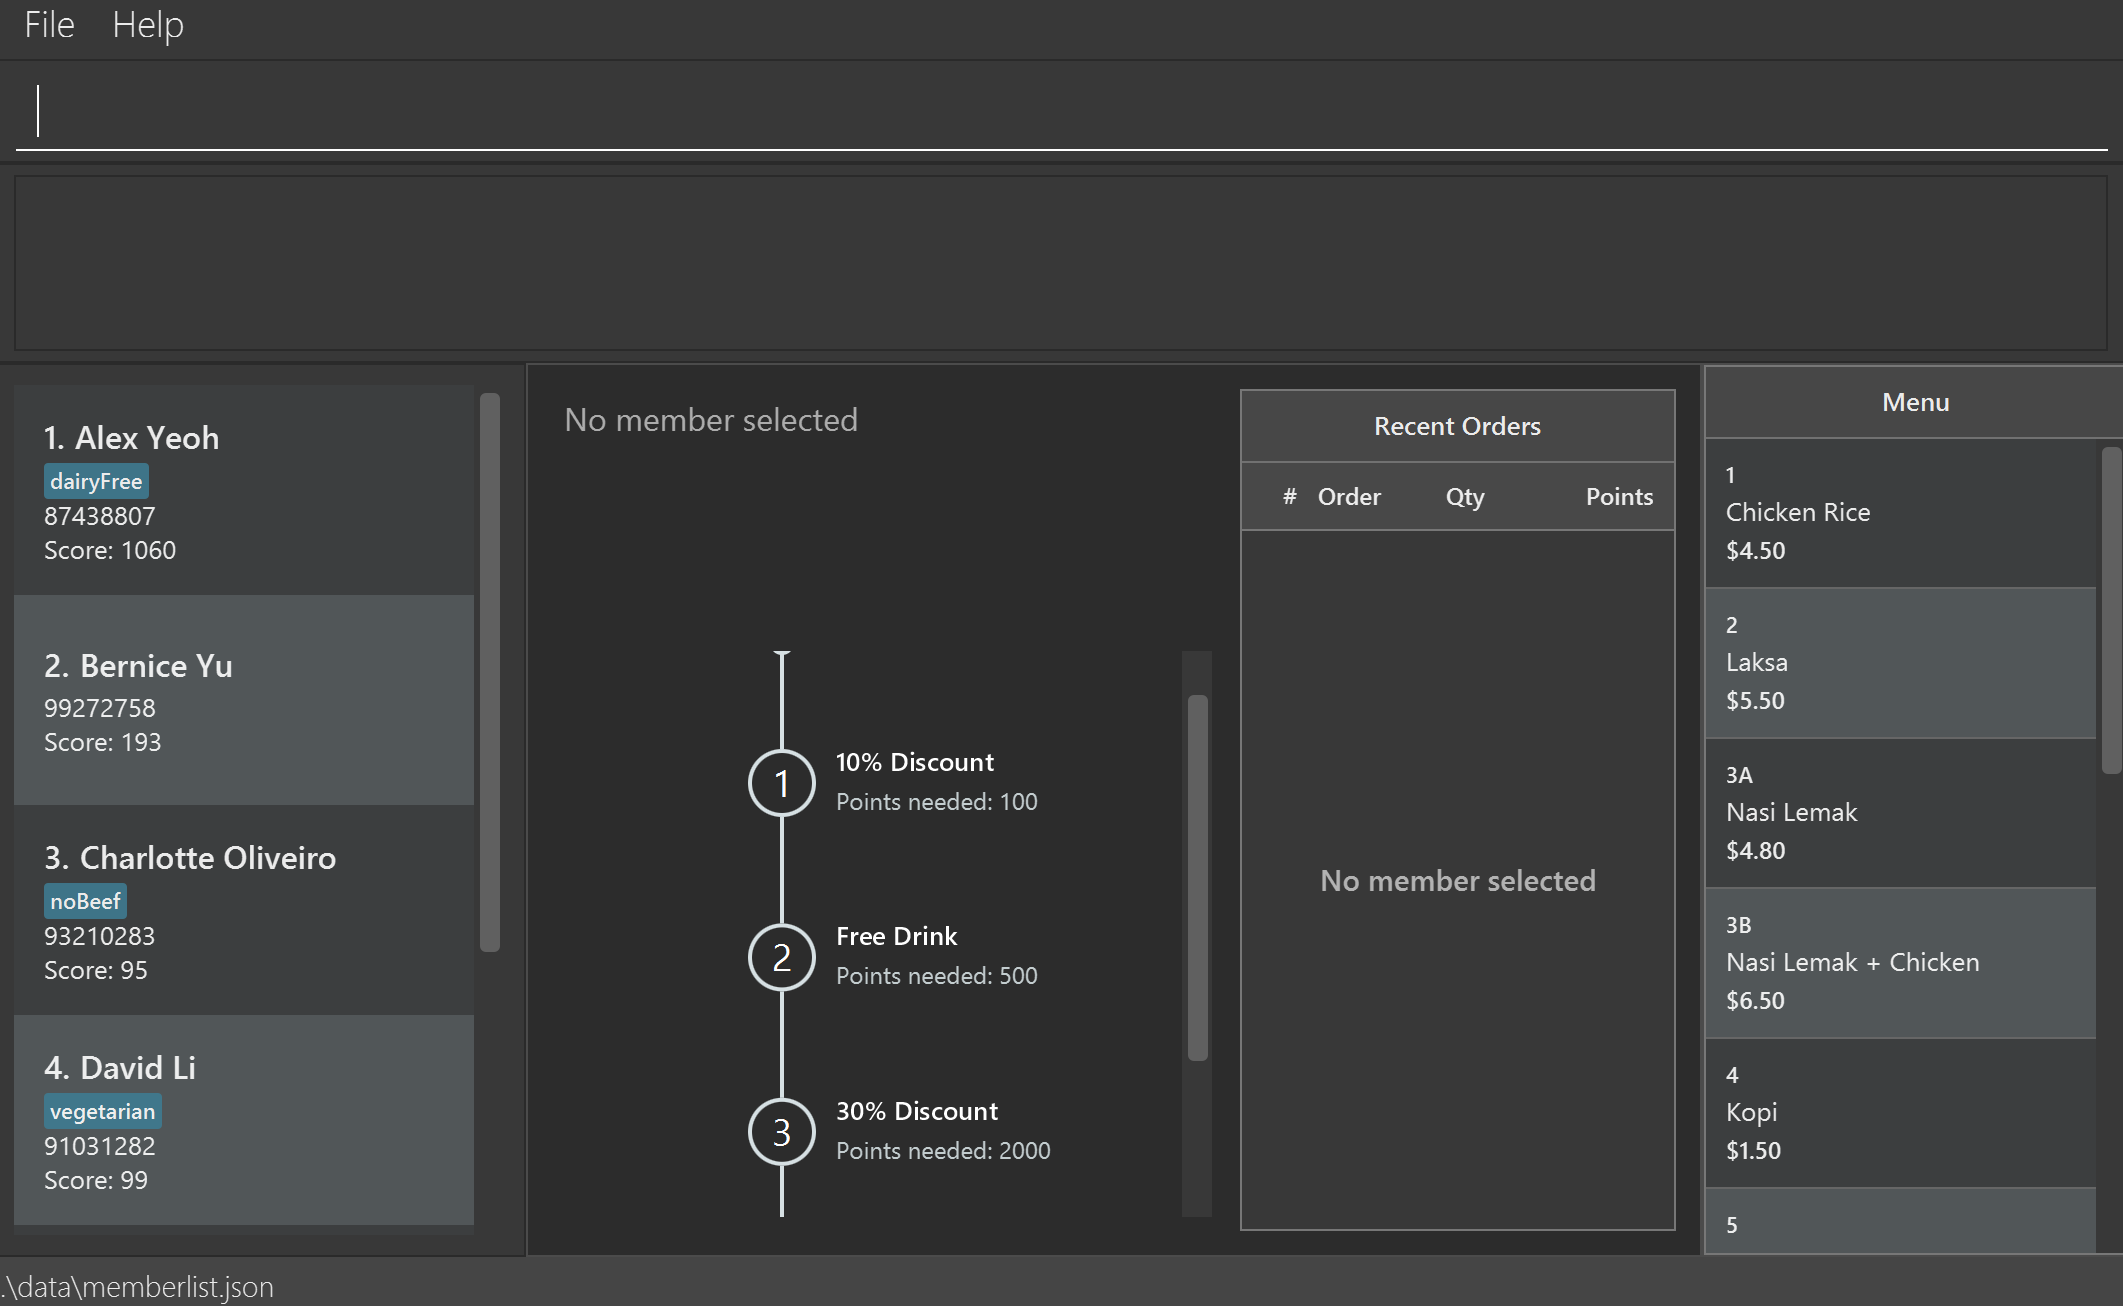
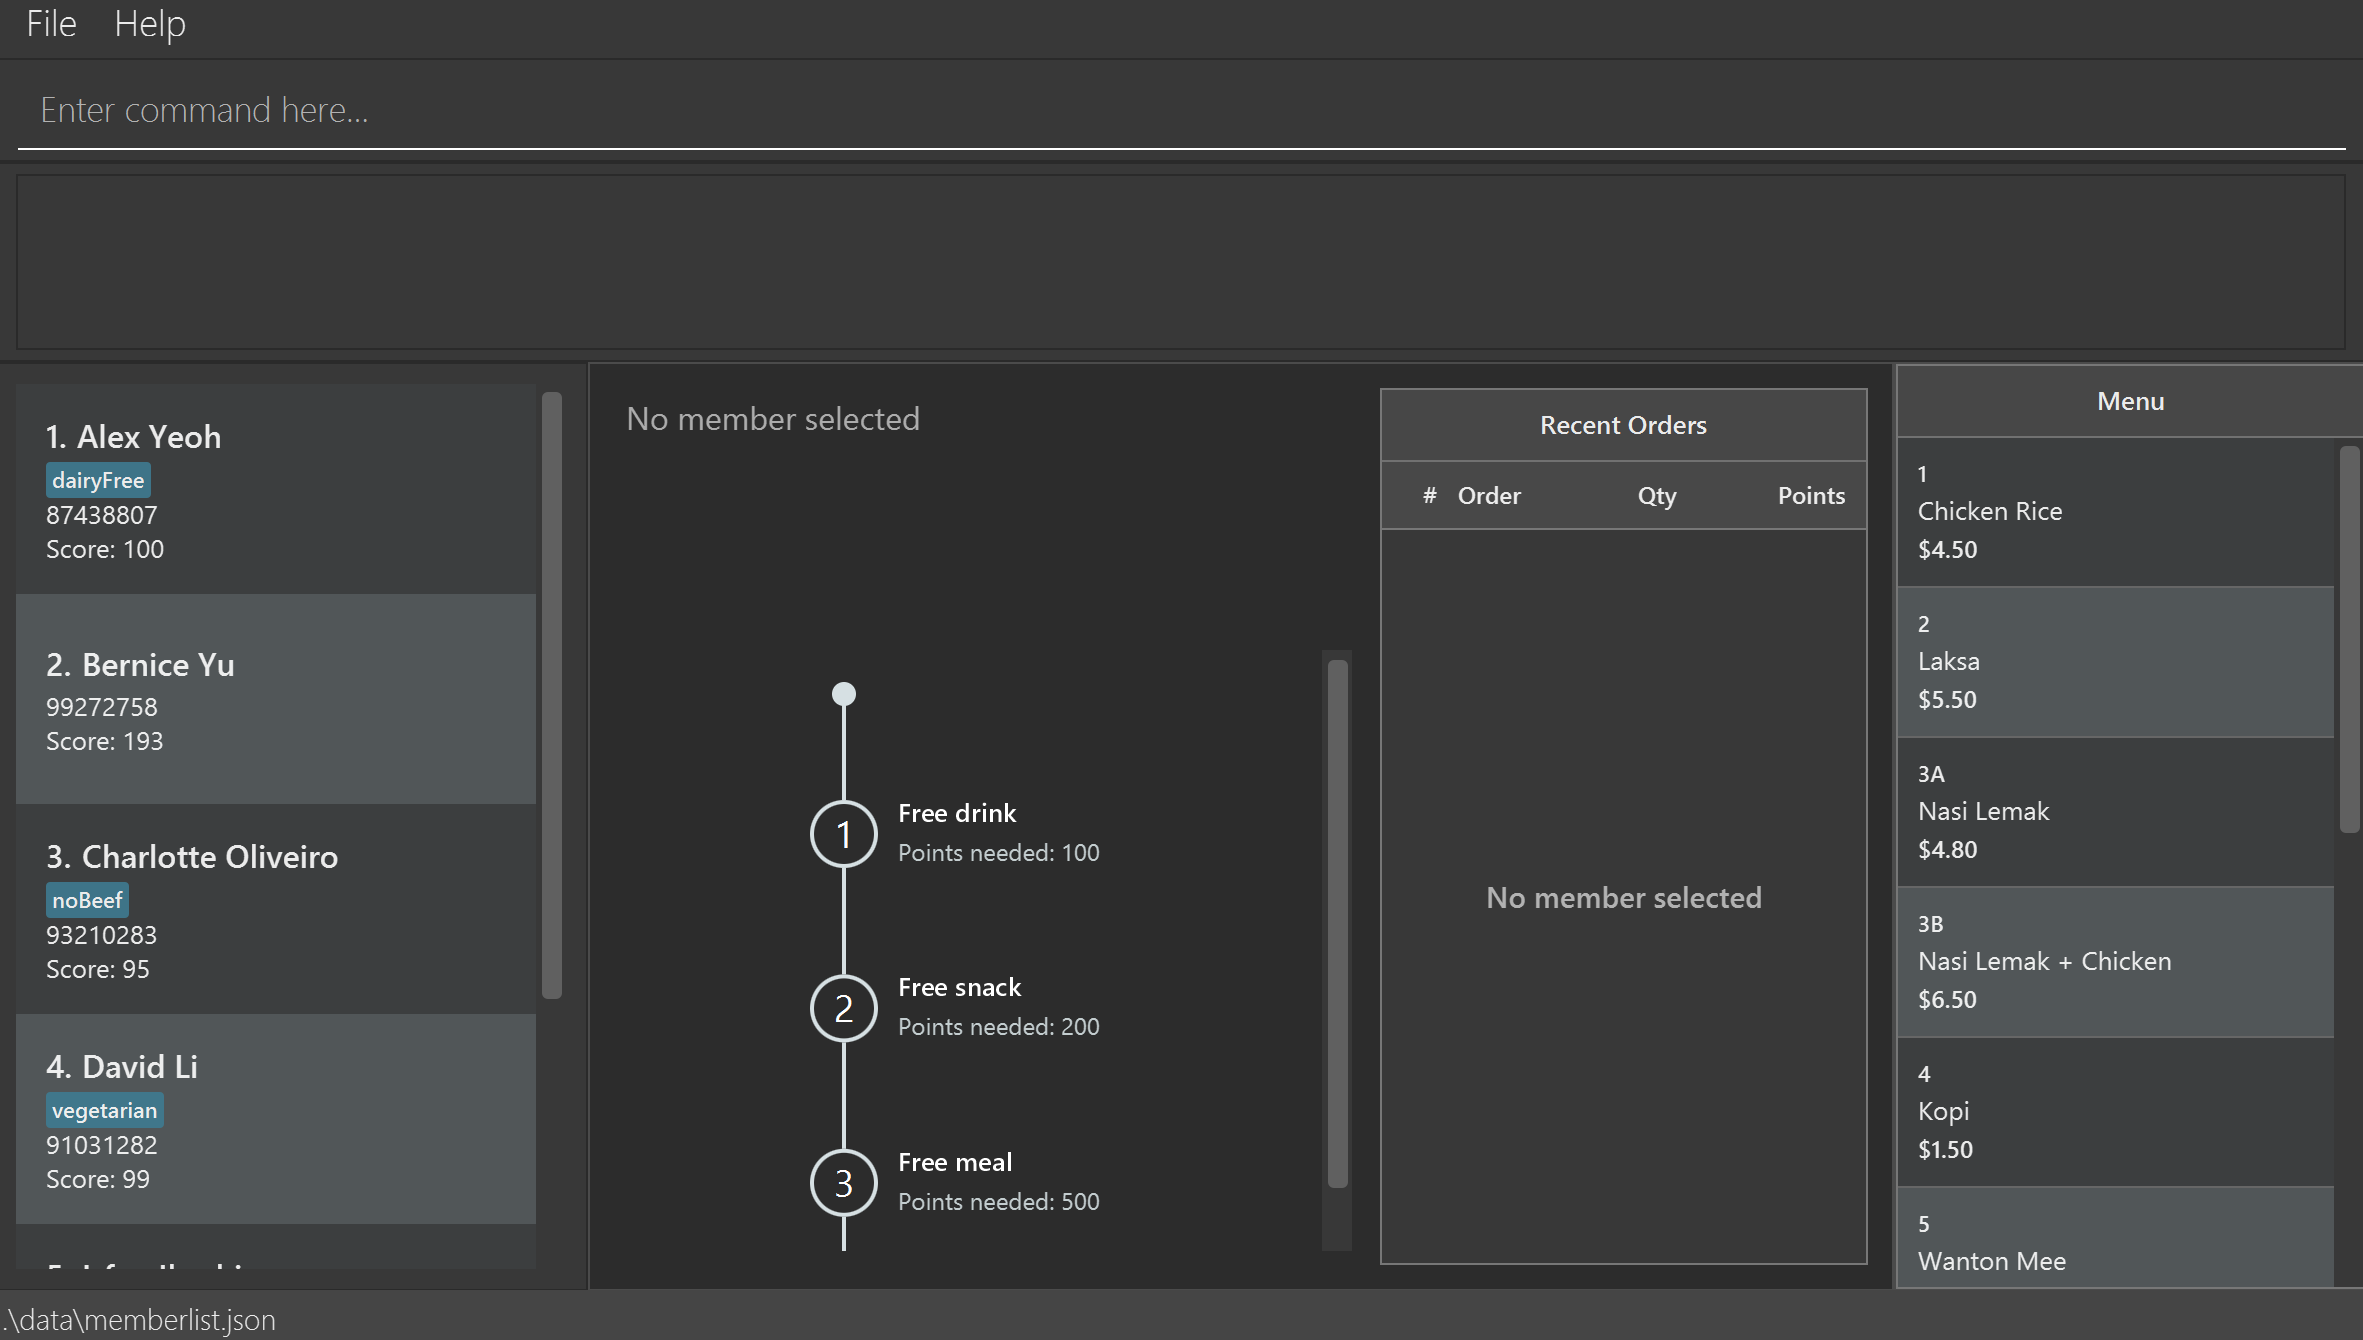
Reorganise add member guide

diff --git a/docs/UserGuide.md b/docs/UserGuide.md
@@ -111,6 +111,19 @@ Registers a member and selects their profile. The full member list is shown afte
 
 **Format:** `add-member n/NAME p/PHONE_NUMBER [t/TAG]…`
 
+**Examples:**
+
+Assuming the phone entries are not already registered:
+
+* `add-member n/John Doe p/98765432`
+* `add-member n/Betsy Crowe t/regular p/81234567 t/vegetarian`
+
+**Phone warning:** Overseas numbers and other entries containing digits are also accepted, but an
+unrecognized Singapore format produces a **nonblocking warning**: the entry has been saved, so check it
+before continuing. A **possible duplicate warning** also means the entry was saved; check the related
+members before creating another record. See [Phone formats and duplicate checks (reference)](#phone-formats-and-duplicate-checks-reference)
+for supported formats and warning details.
+
 **Parameters and constraints:**
 
 * Supply `n/NAME` and `p/PHONE_NUMBER` exactly once each. Tags are optional and `t/TAG` may be repeated.
@@ -120,6 +133,31 @@ Registers a member and selects their profile. The full member list is shown afte
   Duplicate tags are stored only once.
 * New members start with zero points, no orders and no redeemed milestones.
 * Leading and trailing ordinary spaces around field values are removed. Internal spaces in a name are preserved.
+* Use an unused eight-digit Singapore phone number starting with 6, 8 or 9, such as `98765432`.
+  A phone entry must contain at least one digit and cannot be blank.
+* Each saved phone entry identifies one person. An already registered phone entry is rejected;
+  people can share a name if their phone entries differ.
+
+<div markdown="span" class="alert alert-primary">:bulb: **Tip:**
+A person can have any number of tags, including zero.
+</div>
+
+**Common errors and recovery:**
+
+| Input or situation | Result and recovery |
+|---|---|
+| `add-member n/John Doe` | The command format is shown. Supply `p/PHONE_NUMBER`. |
+| `add-member n/123 p/98765432` | `Names should contain at least one letter (A-Z or a-z)`. Use a name such as `John Doe`. |
+| `add-member n/John Doe p/phone` | `Phone numbers must contain at least one digit`. Enter a phone entry containing a digit. |
+| The phone entry is already registered | `This phone number already belongs to a person in the address book: ` followed by the existing member's name, phone entry and tags. The addition is rejected. Check that record before entering a different phone entry. |
+| `add-member n/John Doe p/98765432 t/close friend` | `Tag names should be alphanumeric`. Use `t/closeFriend`. |
+
+#### Phone formats and duplicate checks (reference)
+
+These rules apply to `add-member` and the `p/` field of `edit-member`.
+Use this reference when entering country prefixes, overseas numbers, notes, extensions or multiple numbers,
+or when checking a duplicate warning.
+
 * A phone entry is required. Empty or whitespace-only entries are rejected. New entries supplied to `add-member` or
   the `p/` field of `edit-member` must contain at least one decimal digit (including full-width digits). Inputs such as `Not available`
   and `---` are rejected with `Phone numbers must contain at least one digit`.
@@ -186,27 +224,6 @@ Duplicate-check examples:
 | `92345678 (HP)` | `92345678` | Saved; possible duplicate warning identifies the existing member |
 | `+86 138119828111` | `+86138119828111` | Saved; format warning and possible duplicate warning |
 | `92345678` and `81234567` in separate members | `92345678 (HP) / 81234567 (Office)` | Saved; possible duplicate warning identifies both members |
-
-<div markdown="span" class="alert alert-primary">:bulb: **Tip:**
-A person can have any number of tags, including zero.
-</div>
-
-**Examples:**
-
-Assuming the phone entries are not already registered:
-
-* `add-member n/John Doe p/98765432`
-* `add-member n/Betsy Crowe t/regular p/81234567 t/vegetarian`
-
-**Common errors and recovery:**
-
-| Input or situation | Result and recovery |
-|---|---|
-| `add-member n/John Doe` | The command format is shown. Supply `p/PHONE_NUMBER`. |
-| `add-member n/123 p/98765432` | `Names should contain at least one letter (A-Z or a-z)`. Use a name such as `John Doe`. |
-| `add-member n/John Doe p/phone` | `Phone numbers must contain at least one digit`. Enter a phone entry containing a digit. |
-| The phone entry is already registered | `This phone number already belongs to a person in the address book: ` followed by the existing member's name, phone entry and tags. The addition is rejected. Check that record before entering a different phone entry. |
-| `add-member n/John Doe p/98765432 t/close friend` | `Tag names should be alphanumeric`. Use `t/closeFriend`. |
 
 ### Listing all members: `list`
 
@@ -747,7 +764,6 @@ and `data/milestones.json` from the old home folder into the new home folder's `
 ## Known issues
 
 1. **When using multiple screens**, if you move the application to a secondary screen, and later switch to using only the primary screen, the GUI will open off-screen. The remedy is to delete the `preferences.json` file created by the application before running the application again.
-2. **If you minimize the Help Window** and then run the `help` command (or use the `Help` menu, or the keyboard shortcut `F1`) again, the original Help Window will remain minimized, and no new Help Window will appear. The remedy is to manually restore the minimized Help Window.
 
 --------------------------------------------------------------------------------------------------------------------
 
